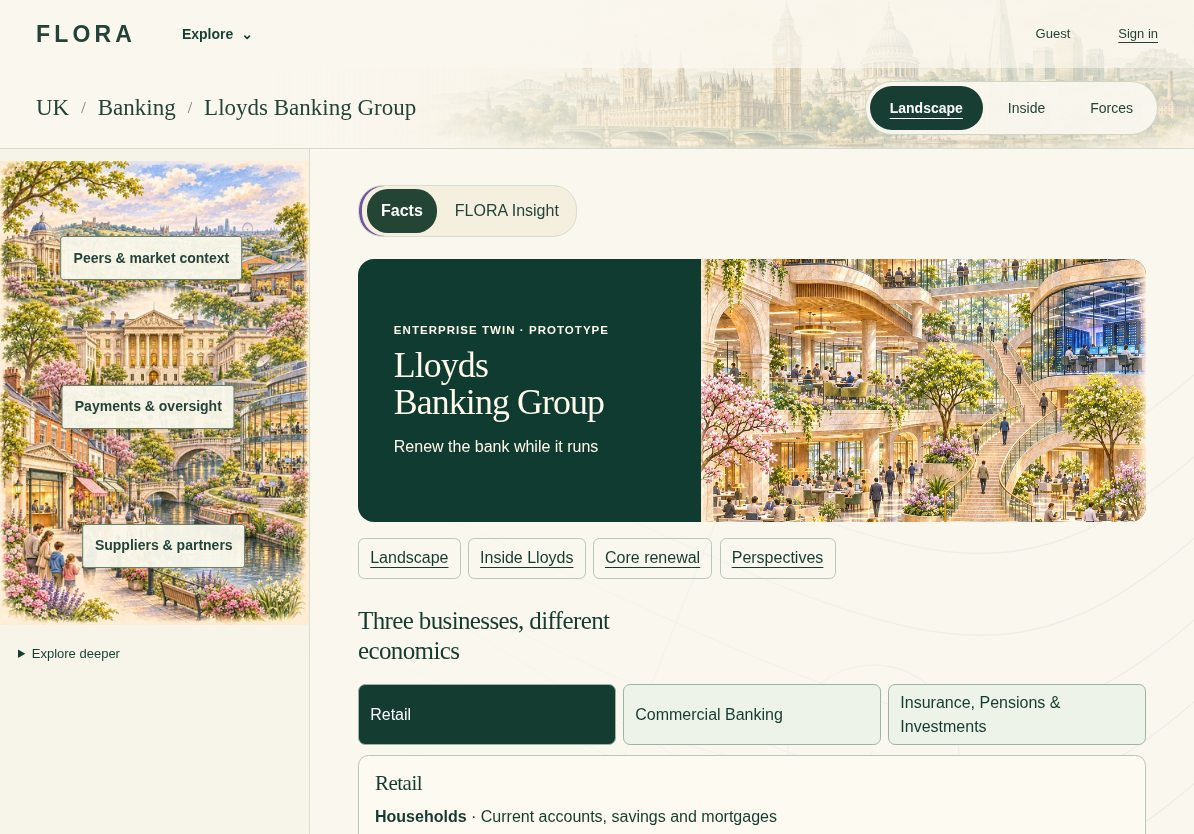
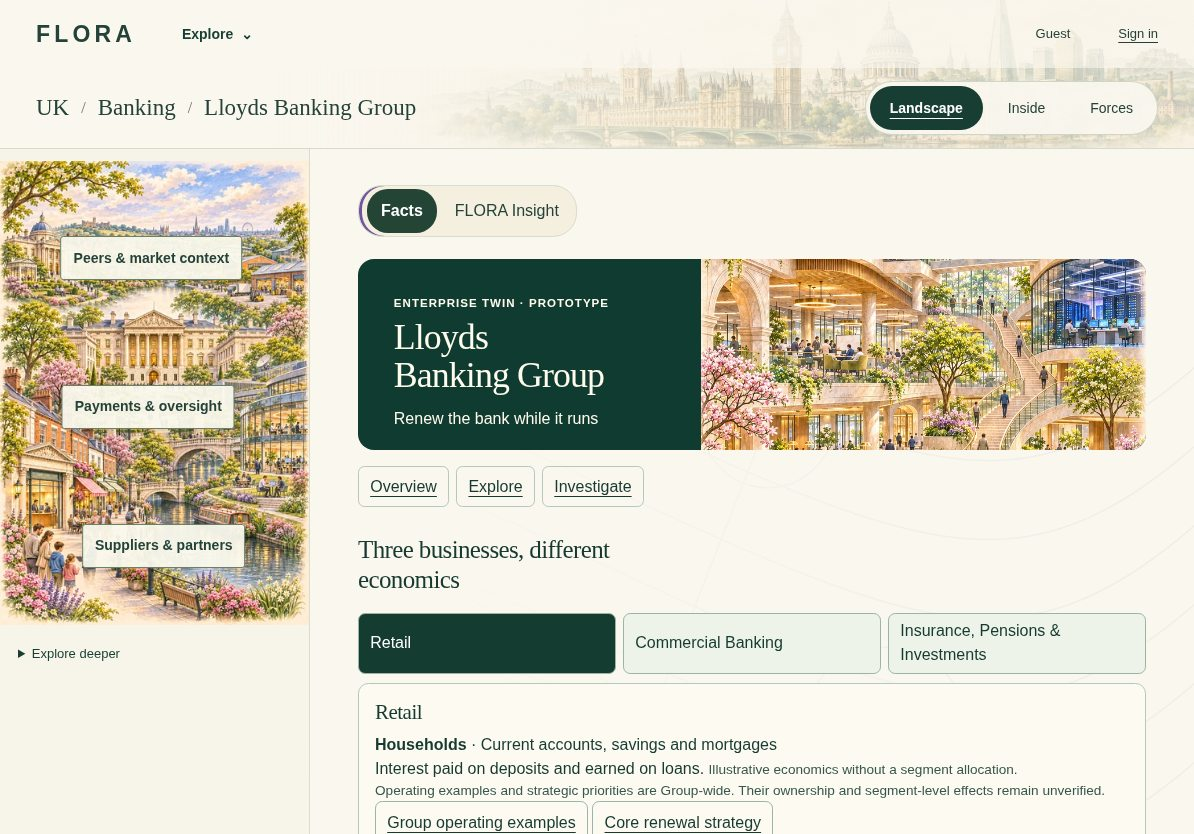
Document intelligence coverage and refresh conditional-review previews

Changed region(s): [[0.2789, 0.3118, 0.9606, 1.0]]

diff --git a/docs/flora-runtime/lloyds-ux-refinement/README.md b/docs/flora-runtime/lloyds-ux-refinement/README.md
@@ -1,26 +1,36 @@
-# Lloyds flagship UX refinement
+# Lloyds flagship executive density
 
-Baseline `63df0cbf8e1de98d8a782cd0a448c7ec7bab4147`. Open Lloyds Landscape and select **Explore the Lloyds flagship**. The canonical arrival, original artwork and Facts / FLORA Insight control are reused.
+Current main baseline `63df0cbf8e1de98d8a782cd0a448c7ec7bab4147`. This refinement follows the conditionally accepted #712 head `5eab9fd47f56f3fd67757b0b3ca80f1097de8cee`. Open Lloyds Landscape and select **Explore the Lloyds flagship**.
 
 ## Walkthrough
 
-1. Pick Retail, Commercial Banking, or Insurance, Pensions & Investments. Each choice shows the customer and product context, illustrative economics, and links to the Group operating examples and strategy. Evidence does not support segment allocation or ownership.
-2. Open **Core renewal**. Select Economics, Operations, Technology, Pressure or Strategy. Each choice displays its disclosure and an existing detail link. The sequence is an analytical association. Its order establishes no causal effect.
-3. Switch to **FLORA Insight**, select **Perspectives**, then explore the SWOT quadrants, risk categories, AI and payments, horizontal timeline, options or peer bars. The bars measure complaints received across distinct legal entities and cannot rank service quality.
-4. Select **Sources** in context to open the one inspection panel at the relevant evidence. It includes available publisher, publication date, locator, scope, authority and caveats. Browser Back restores the previous selection. All evidence already passes through the original eligibility gates.
+1. **Overview** shows the three reporting segments, selected customer and product context, and concise funding, efficiency and reporting signals. Funding is a dated Group stock. The efficiency signal is a management ambition. The reporting deadline applies to the sector and does not establish Lloyds readiness.
+2. **Explore** follows branch service, platform renewal and AI controls into the core-renewal map. Step selection retains the existing detail links. The sequence joins related evidence and does not assert causal dependencies.
+3. **Investigate** groups SWOT into four selectable quadrants, with two evidence-backed themes per quadrant when their inputs are eligible. It retains the risk landscape, payment and AI scenarios, horizontal milestone selection, service volumes and alternative responses.
+4. Verified owners can select **Explore → In this view → Research inspection** from the existing shell. The separate inspection route uses the existing entitlement and owner checks. It includes publisher, publication dates, authority, locators and material caveats. Guests have no inspection link or hidden evidence payload.
 
-## Review captures
+## Coverage compared with the accepted reference
+
+| Area | Previous #712 | Refined |
+| --- | --- | --- |
+| Executive canvas | Repeated Sources links and one closed evidence disclosure | No Sources links or evidence disclosure in the visual canvas. Facts, plans and material uncertainty remain visible. |
+| Overview | Segment selector and one Group economics link | Adds source-gated Group funding scale, management efficiency ambition and reporting deadline to the overview. |
+| SWOT | Four themes across four quadrants | Eight themes. Adds deposit base, benefit measurement, data-enabled service and parallel-running exposure. Existing findings remain. |
+| Competition, risk and timing | Established versus hypothetical AI and payments, risk categories, peer counts and milestones | Keeps the same analyses, risk qualifiers and comparable-volume limits, and links the investigation more directly from Overview and Explore. |
+| Evidence | Public panel inside the page | Original served evidence is re-resolved in the existing verified owner inspection view. No new Source admission or new permission grant. |
+
+## Captures
 
 | View | Desktop | iPad landscape | iPad portrait |
 | --- | --- | --- | --- |
 | Before | [Desktop](previews/before-desktop.jpg) | [Landscape](previews/before-ipad-landscape.jpg) | [Portrait](previews/before-ipad-portrait.jpg) |
-| After | [Desktop](previews/after-desktop.jpg) | [Landscape](previews/after-ipad-landscape.jpg) | [Portrait](previews/after-ipad-portrait.jpg) |
-| SWOT | [Desktop](previews/swot-desktop.jpg) | [Landscape](previews/swot-ipad-landscape.jpg) | [Portrait](previews/swot-ipad-portrait.jpg) |
+| Overview | [Desktop](previews/after-desktop.jpg) | [Landscape](previews/after-ipad-landscape.jpg) | [Portrait](previews/after-ipad-portrait.jpg) |
+| Investigate · SWOT | [Desktop](previews/swot-desktop.jpg) | [Landscape](previews/swot-ipad-landscape.jpg) | [Portrait](previews/swot-ipad-portrait.jpg) |
 
-[Browser harness](browser.py) · [Before observations](previews/before.json) · [After observations](previews/after.json). All three viewports went from 31 flagship disclosures to one Sources panel, closed on arrival. Counts exclude the shared shell and the separate accepted Landscape arrival.
+[Loopback harness](browser.py) · [Before observations](previews/before.json) · [After observations](previews/after.json). Chromium emulates the iPad viewports and touch. Physical iPad, Safari and assistive-technology review remain open.
 
-## Critique
+## Commercial and visual critique
 
-The first screen communicates organisation and customer context before supporting evidence. Same-page selections shorten deep reading, while ordinary links preserve the existing route and browser history. The prototype still has an in-page navigation row alongside the established shell, and contextual Sources opens a panel below the perspectives instead of taking over the screen. Without scripting, sections remain readable in document order and Sources remains a native disclosure. Chromium emulates touch and viewport sizes. Physical iPad, Safari and assistive-technology review remain open.
+The additional themes let an executive distinguish funding scale from funding economics, or a disclosed AI contribution from repeatable net benefit. The three short depth labels replace the longer section menu. Removing evidence controls makes the comparisons easier to read. The trade-off is that opening full provenance requires a separate owner view. Even there, evidence can establish the Group’s reported position and plans without proving division-level ownership, migration economics or independent AI benefits.
 
-Existing conclusions and inputs stay with their current owners. The AI view identifies the company-disclosed Envoy capability and separates a policy pilot from a hypothetical assistant. Named entrant launches remain unverified. Disclosed controls, inferred execution risk and dated regulatory pressure retain their separate treatments. Existing private Financial and Pipeline access is outside the visual change. Lloyds §2 stays inactive, §5 PDF links stay deferred and ADR‑027 stays Proposed.
+The analysis uses existing eligible facts. Division-level cost allocation, supplier terms, adoption, matched customer denominators and named AI entrant launches remain unverified. No new TOWS recommendation is needed beyond the existing conditional alternatives. Lloyds §2 remains inactive, §5 PDF links remain deferred and ADR‑027 remains Proposed.
